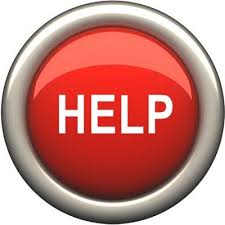
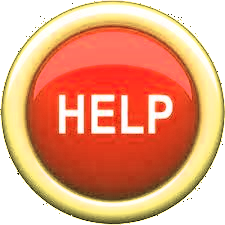
Pictures without borders
The pictures in the game no longer have borders, courtesy of Gimp. Also,
I updated all the pictures to be PNGs so it is easier to change them. I
updated all the html files to get the pictures as well.

diff --git a/Django/pluvali/CopingGame/templates/CopingGame/profile.html b/Django/pluvali/CopingGame/templates/CopingGame/profile.html
@@ -37,7 +37,7 @@
 		{% csrf_token %}
 		
 		{{ profileForm.as_p }}
-		<input type="submit" value="Upload" name="upload"/>
+		<input type="submit" value="Upload" />
 	</form>
 	<br>
 	<!-- PLAYER TOKENS -->
@@ -45,38 +45,29 @@
 	<br>
 	<!-- PLAYER PURCHASES -->
 	<li>Here is a list of your total purchases:</li>
-	
-	<form action="" method="post">
-	{% csrf_token %}
-	
 	{% if purchase_list %}
 		{% for purchase in purchase_list %}
-			{% if purchase.itemFKey.category == "Themes" %}
-				<li bgcolor="{{ purchase.itemFKey.value1 }}" style="color:{{ purchase.itemFKey.value2 }}"><button name="change" type="submit">Select</button>[{{ purchase.itemFKey.category }}] {{ purchase.itemFKey.itemName }}: {{ purchase.itemFKey.itemDesc }}</li>
-			{% else %}
-				<li><button name="change" type="sumbit">Select</button>[{{ purchase.itemFKey.category }}] {{ purchase.itemFKey.itemPicture.url }}
-			{% endif %}
+		<li>[{{ purchase.itemFKey.category }}] {{ purchase.itemFKey.itemName }}: {{ purchase.itemFKey.itemDesc }}</li>
 		{% endfor %}
 		<br>
 	{% else %}
 		<p>You haven't purchased any items yet.</p>
 	{% endif %}
-	</form>
 	<!-- The button to go to the store page -->
 		<a href="/CopingGame/store">
-		<img src="{% static 'CopingGame/images/store1.png' %}" style="width:100px;height:100px;border:0" style="color:{{ player.fav_text }}">
+		<img src="{% static 'CopingGame/images/store4.png' %}" style="width:100px;height:100px;border:0" style="color:{{ player.fav_text }}">
 		</a> 
 		<= Press this button to go to the store page.
 	<br>
 	<br>
 	<!-- The button to return to the home page -->
 	<a href="/CopingGame/">
-		<img src="{% static 'CopingGame/images/home1.jpg' %}" style="width:100px;height:100px;border:0" style="color:{{ player.fav_text }}">
+		<img src="{% static 'CopingGame/images/home1.png' %}" style="width:100px;height:100px;border:0" style="color:{{ player.fav_text }}">
 	</a> 
 	<= Press this button to go back to the Homepage.
 	<br>
 	<!-- A picture of DDRC's logo -->
-	<img src="{% static 'CopingGame/images/logo.jpg' %}" alt="ddrcco.com" width="225" height="106.5"></a>
+	<img src="{% static 'CopingGame/images/logo2.png' %}" alt="ddrcco.com" width="225" height="106.5"></a>
 	
  </body>
  </html>  

diff --git a/Django/pluvali/CopingGame/templates/CopingGame/index.html b/Django/pluvali/CopingGame/templates/CopingGame/index.html
@@ -47,7 +47,7 @@
 	<center>
 	<p align="center">Press this button to see the list of scenarios to play.</p>
 	<a href="/CopingGame/scenarios/">
-		<img src="{% static 'CopingGame/images/play2.jpg' %}" style="width:100px;height:100px;border:0" style="color:{{ player.fav_text }}">
+		<img src="{% static 'CopingGame/images/play2.png' %}" style="width:100px;height:100px;border:0" style="color:{{ player.fav_text }}">
 		</a> 
 	<br>
 	<!-- The button to go to the profile page -->
@@ -59,13 +59,13 @@
 	<!-- The button to go to the store page -->
 	<p align="center">Press this button to go to the store.</p>
 	<a href="/CopingGame/store/">
-		<img src="{% static 'CopingGame/images/store1.png' %}" style="width:100px;height:100px;border:0" style="color:{{ player.fav_text }}">
+		<img src="{% static 'CopingGame/images/store4.png' %}" style="width:100px;height:100px;border:0" style="color:{{ player.fav_text }}">
 		</a> 
 	<br>	
 	<!-- The button to go to the help page -->
 	<p align="center">Press this button to go to the help page.</p>
 	<a href="/CopingGame/help/">
-		<img src="{% static 'CopingGame/images/help4.png' %}" style="width:100px;height:100px;border:0" style="color:{{ player.fav_text }}">
+		<img src="{% static 'CopingGame/images/help5.png' %}" style="width:100px;height:100px;border:0" style="color:{{ player.fav_text }}">
 		</a>
 	</center>
 	<br>
@@ -74,7 +74,7 @@
 	<p style ="text-align:center;color:{{ player.fav_text }};font-size:200%">You are now able to play the game and go to the store!</p>
 
 	<!-- A picture of DDRC's logo -->
-	<img src="{% static 'CopingGame/images/logo.jpg' %}" alt="ddrcco.com" width="225" height="106.5"></a>
+	<img src="{% static 'CopingGame/images/logo2.png' %}" alt="ddrcco.com" width="225" height="106.5"></a>
 	
  </body>
 

diff --git a/Django/pluvali/CopingGame/templates/CopingGame/scenario_index.html b/Django/pluvali/CopingGame/templates/CopingGame/scenario_index.html
@@ -37,7 +37,7 @@
 		<ul>
 		{% for scenario in scenario_list %}
 			<li><a href="/CopingGame/{{ scenario.sceneID }}/">
-				<img src="{% static 'CopingGame/images/play2.jpg' %}" style="width:100px;height:100px;border:0" style="color:{{ player.fav_text }}">
+				<img src="{% static 'CopingGame/images/play2.png' %}" style="width:100px;height:100px;border:0" style="color:{{ player.fav_text }}">
 				{{ scenario.title }}
 			</a></li>
 		{% endfor %}
@@ -50,13 +50,13 @@
 	<!-- The button to return to the home page -->
 	<p>Press this button to go back to the Homepage.</p>
 	<a href="/CopingGame/">
-		<img src="{% static 'CopingGame/images/home1.jpg' %}" style="width:100px;height:100px;border:0" style="color:{{ player.fav_text }}">
+		<img src="{% static 'CopingGame/images/home1.png' %}" style="width:100px;height:100px;border:0" style="color:{{ player.fav_text }}">
 	</a> 
 	<br>
 	</center>
 	
 	<!-- A picture of DDRC's logo -->
-	<img src="{% static 'CopingGame/images/logo.jpg' %}" alt="ddrcco.com" width="225" height="106.5"></a>
+	<img src="{% static 'CopingGame/images/logo2.png' %}" alt="ddrcco.com" width="225" height="106.5"></a>
 </body>
 
  </html>  

diff --git a/Django/pluvali/CopingGame/templates/CopingGame/victory_page.html b/Django/pluvali/CopingGame/templates/CopingGame/victory_page.html
@@ -36,20 +36,20 @@
 	<br>
 	<!-- The button to return to the list of scenarios -->
 	<a href="/CopingGame/scenarios">
-		<img src="{% static 'CopingGame/images/play2.jpg' %}" style="width:100px;height:100px;border:0" style="color:{{ player.fav_text }}">
+		<img src="{% static 'CopingGame/images/play2.png' %}" style="width:100px;height:100px;border:0" style="color:{{ player.fav_text }}">
 	</a> 
 	<= Press this button to see the list of scenarios to play.
 	<br>
 	<br><br>
 	<!-- The button to return to the home page -->
 	<a href="/CopingGame/">
-		<img src="{% static 'CopingGame/images/home1.jpg' %}" style="width:100px;height:100px;border:0" style="color:{{ player.fav_text }}">
+		<img src="{% static 'CopingGame/images/home1.png' %}" style="width:100px;height:100px;border:0" style="color:{{ player.fav_text }}">
 	</a> 
 	<= Press this button to go back to the Homepage.
 	<br>
 	
 	<!-- A picture of DDRC's logo -->
-	<img src="{% static 'CopingGame/images/logo.jpg' %}" alt="ddrcco.com" width="225" height="106.5"></a>
+	<img src="{% static 'CopingGame/images/logo2.png' %}" alt="ddrcco.com" width="225" height="106.5"></a>
 	
  </body>
  </html>  

diff --git a/Django/pluvali/CopingGame/templates/CopingGame/store_page.html b/Django/pluvali/CopingGame/templates/CopingGame/store_page.html
@@ -37,7 +37,7 @@
 	<br><br>
 	<!-- The button to return to the home page -->
 	<a href="/CopingGame/">
-		<img src="{% static 'CopingGame/images/home1.jpg' %}" style="width:100px;height:100px;border:0" style="color:{{ player.fav_text }}">
+		<img src="{% static 'CopingGame/images/home1.png' %}" style="width:100px;height:100px;border:0" style="color:{{ player.fav_text }}">
 	</a> 
 	<= Press this button to go back to the Homepage.
 	<br>
@@ -152,7 +152,7 @@
 	</div>
 	
 	<!-- A link to ddrc's website in a new tab by using their logo -->
-	<img src="{% static 'CopingGame/images/logo.jpg' %}" alt="ddrcco.com" width="225" height="106.5"></a>
+	<img src="{% static 'CopingGame/images/logo2.png' %}" alt="ddrcco.com" width="225" height="106.5"></a>
 	
 </body>
 </html>

diff --git a/Django/pluvali/CopingGame/templates/CopingGame/help_page.html b/Django/pluvali/CopingGame/templates/CopingGame/help_page.html
@@ -39,13 +39,13 @@
 		<br><br>
 	<!-- The button to return to the home page -->
 	<a href="/CopingGame/">
-		<img src="{% static 'CopingGame/images/home1.jpg' %}" style="width:100px;height:100px;border:0" style="color:{{ player.fav_text }}">
+		<img src="{% static 'CopingGame/images/home1.png' %}" style="width:100px;height:100px;border:0" style="color:{{ player.fav_text }}">
 	</a> 
 	<= Press this button to go back to the Homepage.
 	<br>
 	
 	<!-- A picture of DDRC's logo -->
-	<img src="{% static 'CopingGame/images/logo.jpg' %}" alt="ddrcco.com" width="225" height="106.5"></a>
+	<img src="{% static 'CopingGame/images/logo2.png' %}" alt="ddrcco.com" width="225" height="106.5"></a>
 	
  </body>
  </html>  

diff --git a/Django/pluvali/CopingGame/templates/CopingGame/game_page.html b/Django/pluvali/CopingGame/templates/CopingGame/game_page.html
@@ -151,7 +151,7 @@
 	</table>
 	
 	<!-- A picture of DDRC's logo -->
-	<img src="{% static 'CopingGame/images/logo.jpg' %}" alt="ddrcco.com" width="225" height="106.5"></a>
+	<img src="{% static 'CopingGame/images/logo2.png' %}" alt="ddrcco.com" width="225" height="106.5"></a>
 	
 </body>
 </html>
